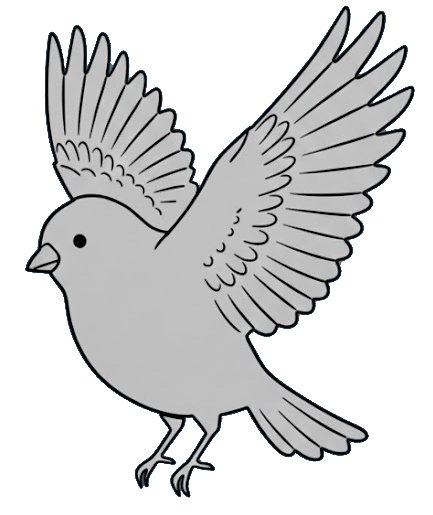
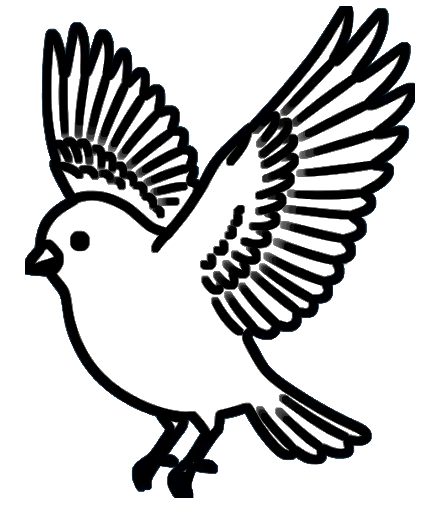
Sharper Birds

diff --git a/src/entities/bird.ts b/src/entities/bird.ts
@@ -1,4 +1,4 @@
-import { ColorMatrixFilter, Container, Sprite, Ticker } from "pixi.js";
+import { Container, Sprite, Ticker } from "pixi.js";
 import { INSTANCES } from "@instances";
 
 import { BIRD_CONFIG } from "@config/bird";
@@ -30,10 +30,6 @@ export function bird() {
     bird.height = 30;
     bird.anchor.set(0.5);
     bird.position.set(0, 0);
-
-    const cmf = new ColorMatrixFilter();
-    cmf.brightness(1.2, false);
-    bird.filters = [cmf];
 
     return bird;
   }
